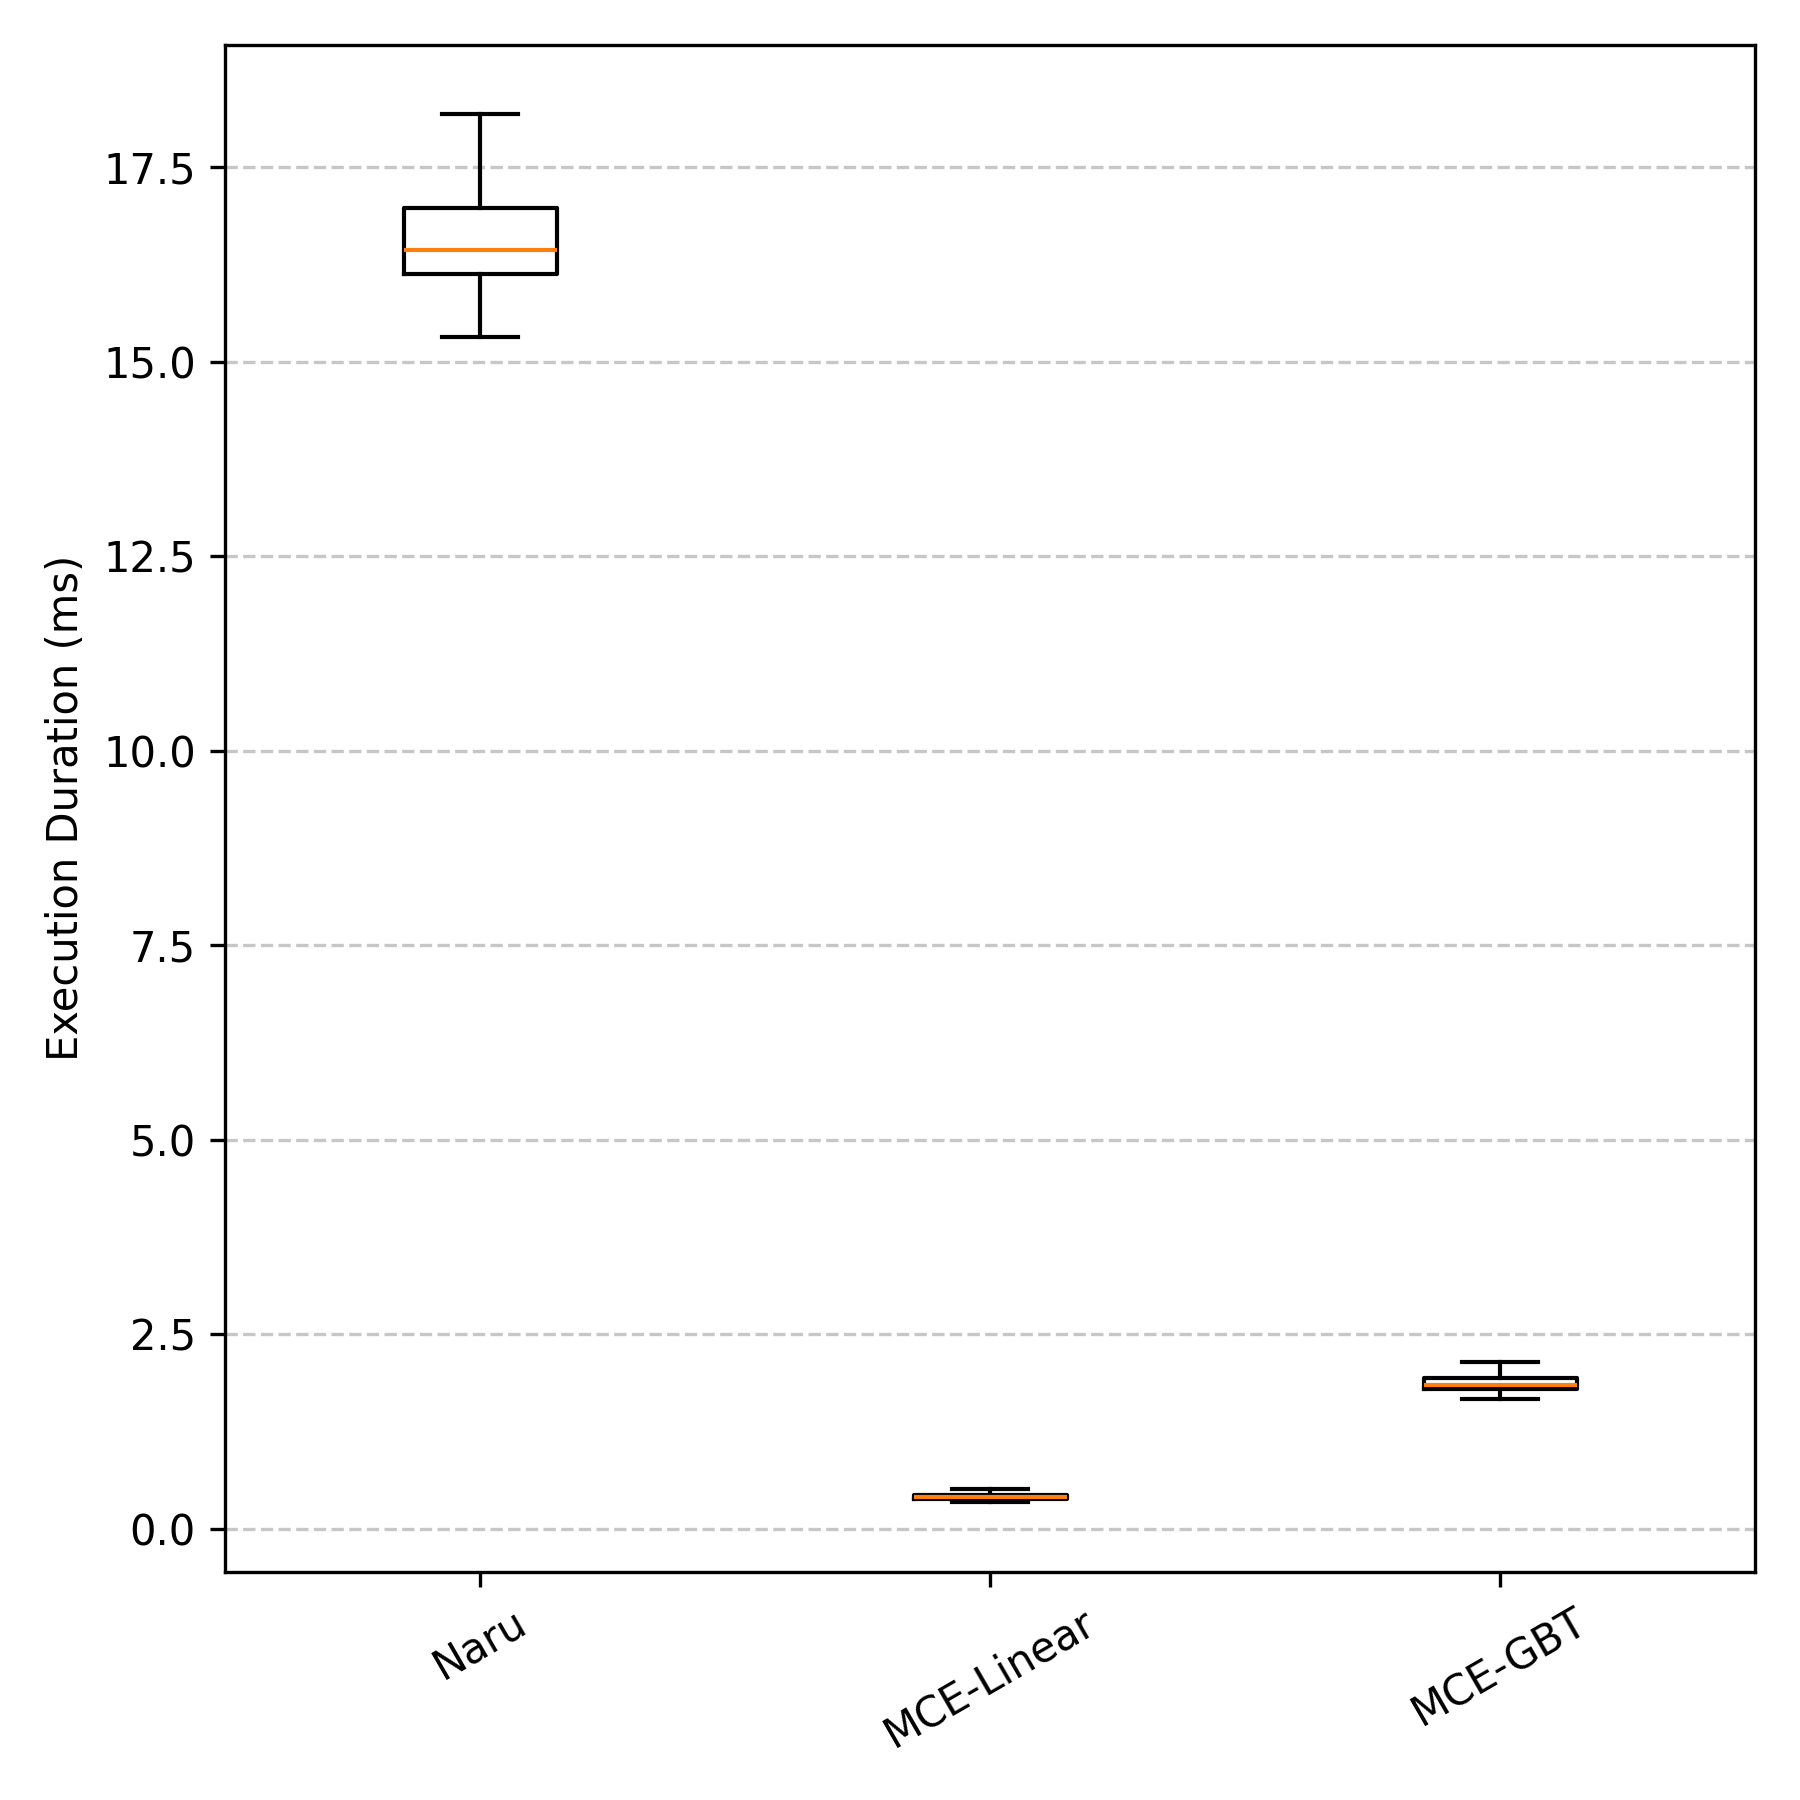
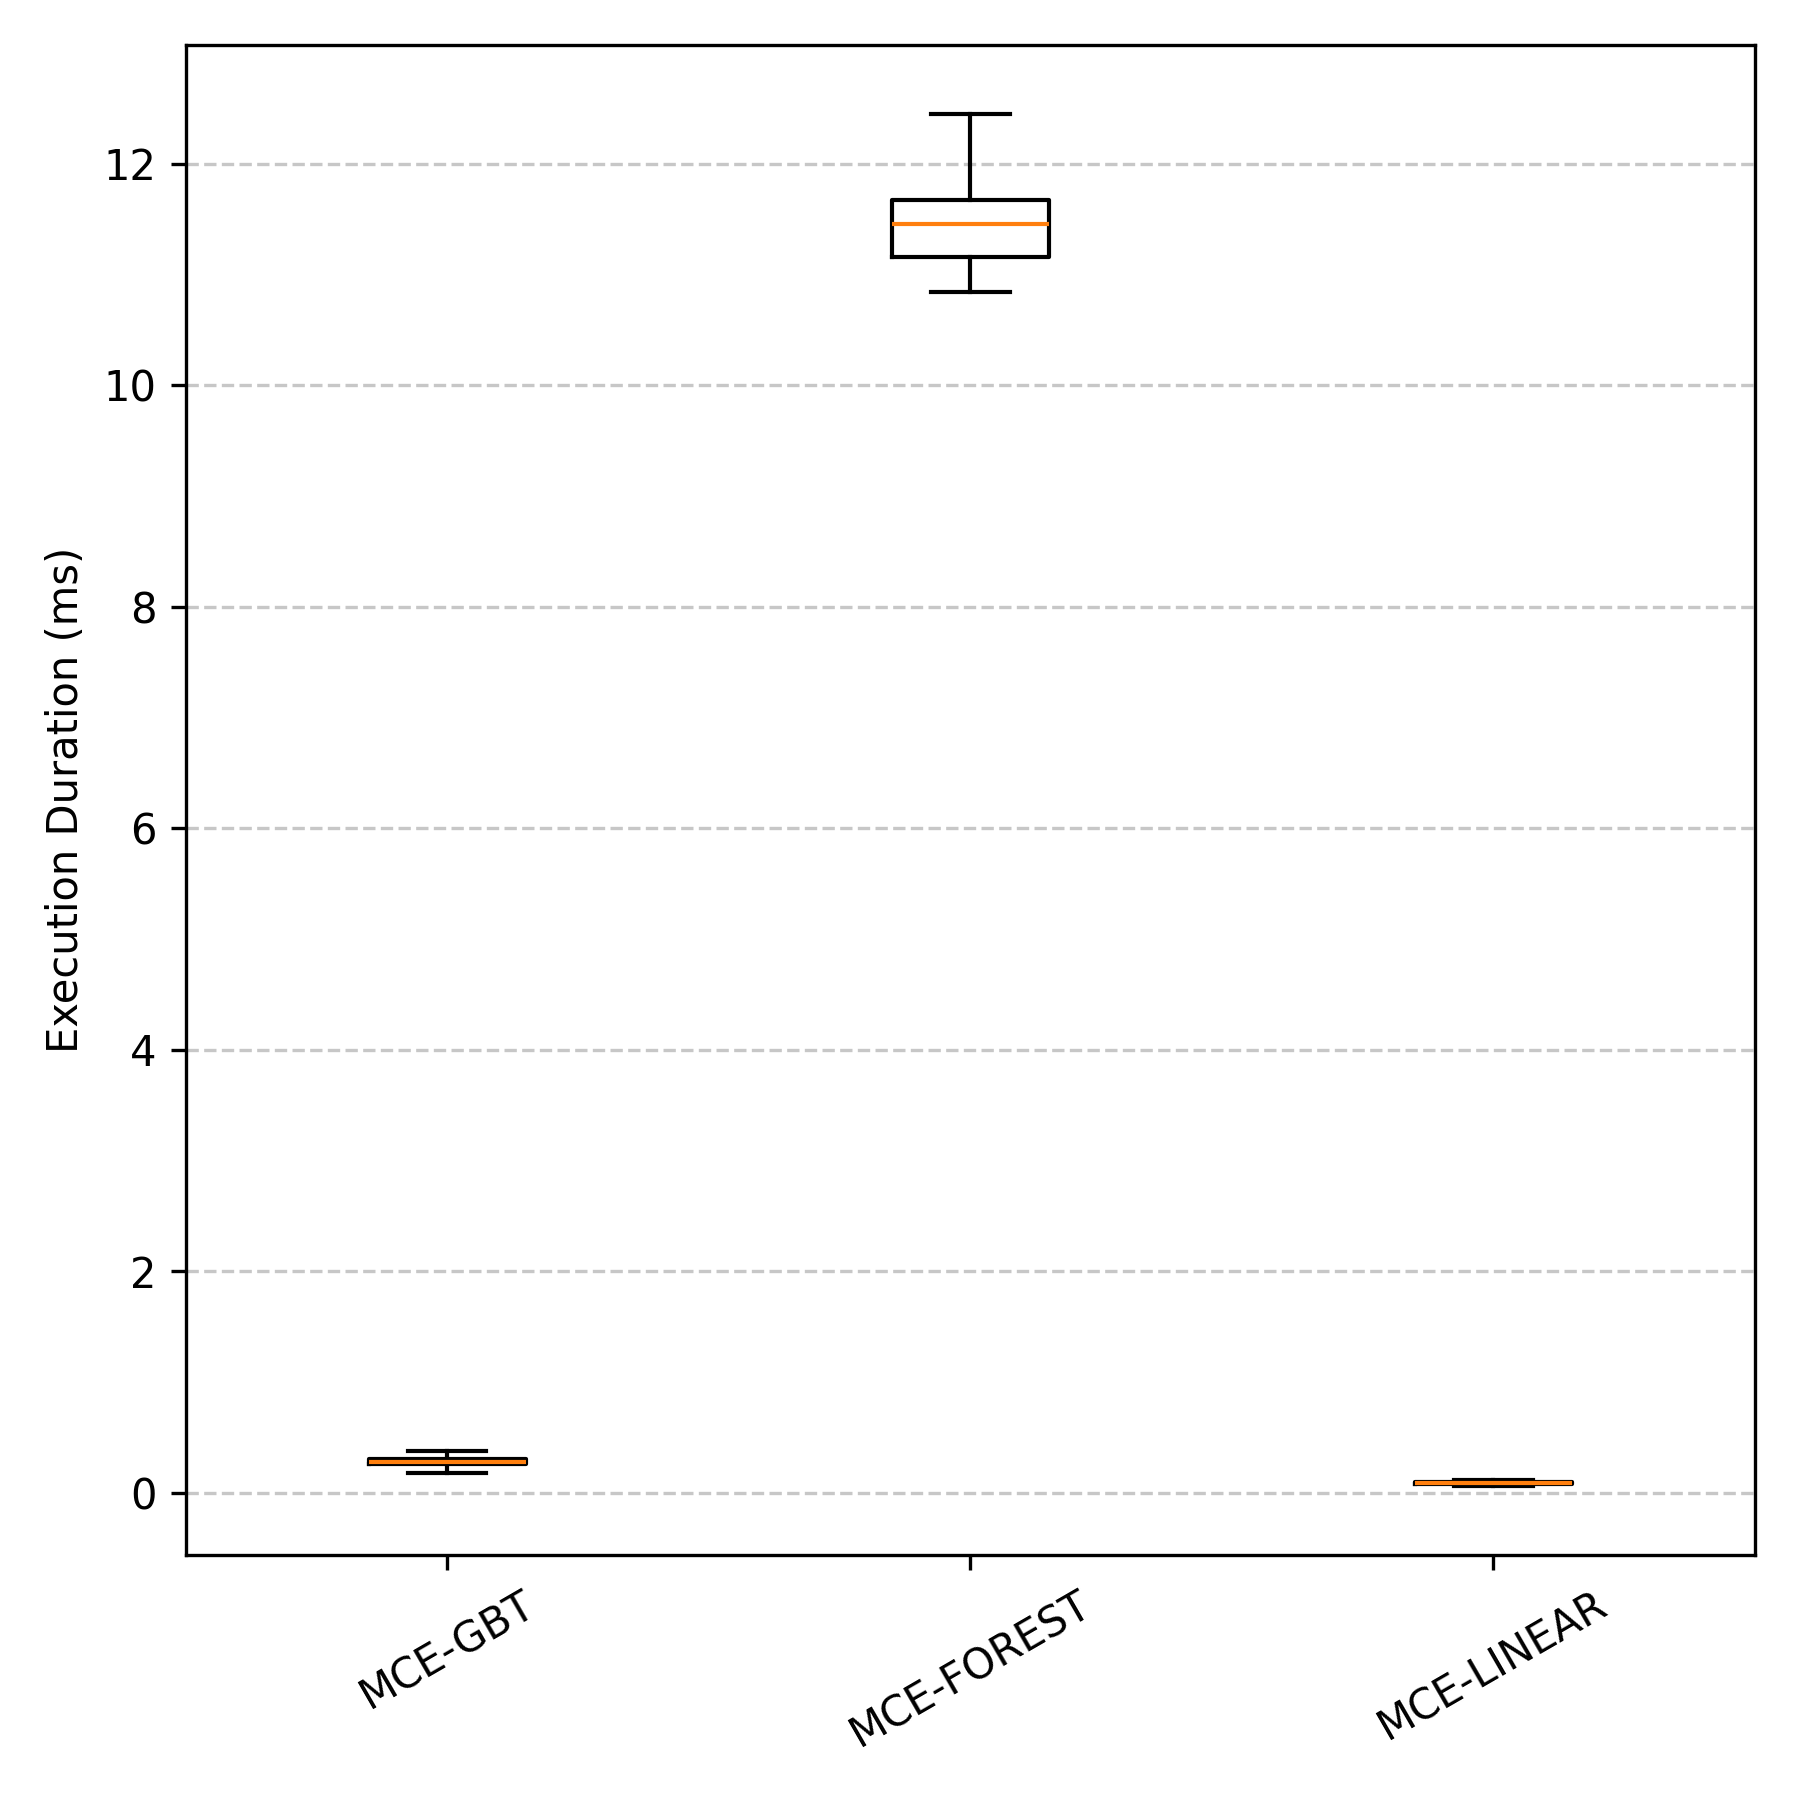
tree comp so far

diff --git a/mce_estimator.py b/mce_estimator.py
@@ -10,15 +10,19 @@ import lightgbm as lgb
 from sklearn.model_selection import GridSearchCV
 import pickle
 
+from sklearn.metrics import make_scorer
+
 class MCE_Estimator(CardEst):
-    def __init__(self, table, rng, linear=False):
+    def __init__(self, table, rng, method="gbt"):
+        assert method in ["gbt", "linear", "forest"]
         super(MCE_Estimator, self).__init__()
-        self.name = 'MDCE' if not linear else 'Lasso'
+
+        self.method = method
+        self.name = "MCE-" + self.method.upper()
         self.model = None
         self.cv_r2 = None
         self.table = table
         self.rng = rng
-        self.linear = linear
 
         # Count distinct of strings - how? Use sentiment score to approximate the value so it can be passed to the GBT
         # IDEA: How to do cardinality estimation with string arguments? Use sentiment analysis as input rather than the string themselves
@@ -91,6 +95,14 @@ class MCE_Estimator(CardEst):
 
         return int(np.maximum(np.round(c[0]), 0)) # type: ignore
 
+    def _q_error(self, y_true, y_pred):
+        eps = 1e-10
+        y_true = np.maximum(y_true, eps)
+        y_pred = np.maximum(y_pred, eps)
+
+        q = np.maximum(y_pred / y_true, y_true / y_pred)
+        return np.median(q)
+
     def train(self, queries, cardinalities):
         n = len(self.col_map)
         query_vecs = []
@@ -98,82 +110,85 @@ class MCE_Estimator(CardEst):
             vec = self._query_to_vec(cols, ops, vals)
             query_vecs.append(vec)
 
-        query_vecs = np.array(query_vecs)
-        vals = np.array(cardinalities)
+        query_vecs = np.array(query_vecs, dtype=int)
+        vals = np.array(cardinalities, dtype=int)
+
+        scoring = {
+            'r2': 'r2',
+            'q_error': make_scorer(self._q_error, greater_is_better=False)
+        }
+
+        targ_score = 'q_error'
     
-        if self.linear:
+        if self.method == "linear":
             model = Lasso(max_iter=10000)
 
-            # Define hyperparameter grid for Lasso
             param_grid = {
-                'alpha': [1e-4, 1e-3, 1e-2, 1e-1, 1]
+                'alpha': [1e-5, 1e-4, 1e-3, 1e-2, 1e-1]
             }
 
             grid_search = GridSearchCV(
                 model,
                 param_grid=param_grid,
                 cv=5,
-                scoring='r2',
+                scoring=scoring,
+                refit=targ_score,
                 verbose=0
             )
-        else:
+        elif self.method == "gbt":
             model = lgb.LGBMRegressor(verbose=-1, n_jobs=4)
 
-            # Define the hyperparameter grid
             param_grid = {
-                'num_leaves': [30,50,100],
+                'num_leaves': [30, 50, 100],
                 'learning_rate': [0.01, 0.1],
-                'max_depth': [4,6, None]
+                'max_depth': [3, 5, None],
+                'lambda_l1': [1e-5, 1e-4, 1e-3, 1e-2, 1e-1]
             }
             
-            # param_grid = {
-            #     'max_depth': [3, 5, None],
-            #     'n_estimators': [500, 1000, 5000],
-            #     'learning_rate': [0.01, 0.1]
-            # }
-
-            # Perform GridSearchCV
             grid_search = GridSearchCV(
-                model, param_grid=param_grid, # type: ignore
-                cv=5, scoring='r2', verbose=0
+                model, # type: ignore
+                param_grid=param_grid,
+                cv=5, 
+                scoring=scoring, 
+                refit=targ_score,
+                verbose=0
             )
-            # model = RandomForestRegressor(random_state=42, n_jobs=1)
+        elif self.method == "forest":
+            model = RandomForestRegressor(verbose=0, n_jobs=4)
 
-            # # Simpler hyperparameter grid
-            # param_grid = {
-            #     'n_estimators': [100, 200],
-            #     'max_depth': [4, 6],
-            #     'min_samples_split': [2, 5]
-            # }
+            param_grid = {
+                'n_estimators': [10, 50, 100],#[10, 20, 30],
+                'max_depth': [3, 5, None]
+            }
 
-            # grid_search = GridSearchCV(
-            #     model,
-            #     param_grid=param_grid,
-            #     cv=5,
-            #     scoring='r2',
-            #     verbose=0,
-            #     njobs=4
-            # )
-            # self.linear = True
-
+            grid_search = GridSearchCV(
+                model,
+                param_grid=param_grid,
+                cv=5,
+                scoring=scoring,
+                refit=targ_score
+            )
+        else:
+            raise ValueError("Unsupported method type: ", self.method)
+            
         grid_search.fit(query_vecs, vals)
         self.model, self.cv_r2 = grid_search.best_estimator_, grid_search.best_score_
 
-        print(f"R2: {self.cv_r2}")
+        print(f"{targ_score}: {self.cv_r2}")
 
         return self.cv_r2
     
     def save_model(self, path):
         assert self.model is not None, 'Must train model first!'
-        if self.linear:
+        if self.method == "gbt":
+            self.model.booster_.save_model(path) # type: ignore
+        else:
             with open(path,'wb') as f:
                 pickle.dump(self.model,f)
-        else:
-            self.model.booster_.save_model(path) # type: ignore
 
     def load_model(self, path):
-        if self.linear:
+        if self.method == "gbt":
+            self.model = lgb.Booster(model_file=path)
+        else:
             with open(path, 'rb') as f:
                 self.model = pickle.load(f)
-        else:
-            self.model = lgb.Booster(model_file=path)

diff --git a/mce_comp.py b/mce_comp.py
@@ -162,8 +162,8 @@ def execute_on_est(est, true_card, query, table, oracle_est):
         table=table,
         oracle_est=oracle_est)
 
-def train_mce(rng, queries, cardinalities, table, path='mce_model.txt', linear=False):
-    spec_est = MCE_Estimator(table, rng, linear=linear)
+def train_mce(rng, queries, cardinalities, table, path='mce_model.txt', method="gbt"):
+    spec_est = MCE_Estimator(table, rng, method=method)
     print("Training model...")
     spec_est.train(queries, cardinalities)
     spec_est.save_model(path)
@@ -267,21 +267,16 @@ def get_train_valid_data(rng, table, table_name, oracle_est, max_rows, seed, num
 
     return train, valid
 
-def gen_card_model(linear, retrain_model, table, table_name, rows, seed, rng, test_data):
-    path = f'models/mce_{table_name}_rows={rows}_seed={seed}_linear={linear}'
-    path += '.pkl' if linear else '.txt'
+def gen_card_model(method, retrain_model, table, table_name, rows, seed, training_size, rng, test_data):
+    path = f'models/mce_{table_name}_rows={rows}_seed={seed}_method={method}_samples={training_size}'
+    path += '.pkl' if method == "gbt" else '.txt'
     if not retrain_model and os.path.exists(path):
-        spec_est = MCE_Estimator(table, rng, linear=linear)
+        spec_est = MCE_Estimator(table, rng, method=method)
         spec_est.load_model(path)
         print(f"Loaded model from: {path}")
     else:
         test_q, test_c = test_data
-        spec_est = train_mce(rng, test_q, test_c, table, path=path, linear=linear)
-
-    if linear:
-        spec_est.name = "MCE-Linear"
-    else:
-        spec_est.name = "MCE-GBT"
+        spec_est = train_mce(rng, test_q, test_c, table, path=path, method=method)
 
     return spec_est
 
@@ -294,16 +289,16 @@ def main():
     recollect_data = False
     retrain_model = False
 
-    num_train = 10000
-    num_valid = 1000
+    num_train = 100000
+    num_valid = 5000
 
-    target_algs = ["naru", "gbt", "linear"]
+    target_algs = ["gbt", "forest", "linear"]
     test_ests = []
     get_naru = "naru" in target_algs
 
     max_rows = None
-    table_name = 'dmv-tiny'
-    target_ckpt = glob.glob('./models/dmv-tiny*.pt')[0]
+    table_name = 'dmv'
+    target_ckpt = glob.glob('./models/dmv-7.3MB*.pt')[0]
     table, oracle_est, naru_est = setup_data_model_eval(rng, table_name, target_ckpt, DEVICE, max_rows=max_rows, get_naru=get_naru)
     rows = min(table.cardinality, max_rows) if max_rows is not None else table.cardinality
 
@@ -313,12 +308,11 @@ def main():
     num_threads = 16
     test_data, valid_data = get_train_valid_data(rng, table, table_name, oracle_est, rows, seed, num_train, num_valid, recollect_data=recollect_data, num_threads=num_threads)
     
-    if "linear" in target_algs:
-        lin_est = gen_card_model(True, retrain_model, table, table_name, rows, seed, rng, test_data)
-        test_ests.append(lin_est)
-    if "gbt" in target_algs:
-        gbt_est = gen_card_model(False, retrain_model, table, table_name, rows, seed, rng, test_data)
-        test_ests.append(gbt_est)
+    for method in target_algs:
+        if method != "naru":
+            print(f"Generating {method.upper()} Estimator...")
+            est = gen_card_model(method, retrain_model, table, table_name, rows, seed, num_train, rng, test_data)
+            test_ests.append(est)
 
     print("Evaluating...")
     valid_q, valid_c = valid_data
